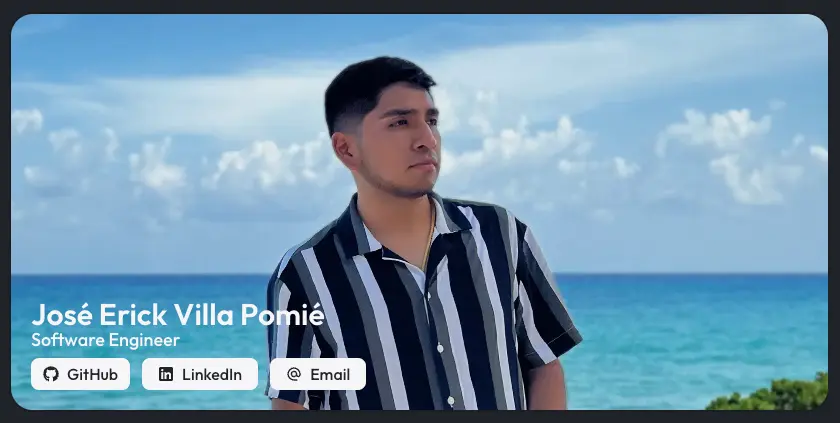
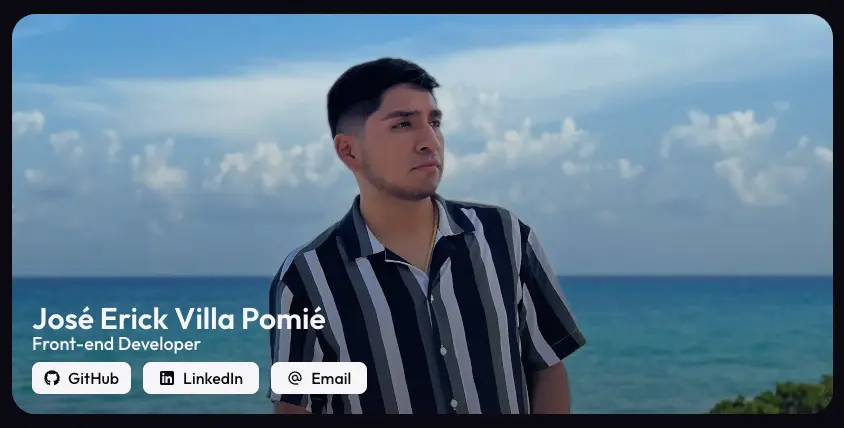
Project lightweighting adjustments

diff --git a/src/app/pages/home/index.tsx b/src/app/pages/home/index.tsx
@@ -1,11 +1,12 @@
 import { useEffect, useState } from 'react'
 import { MdAlternateEmail, MdAutoGraph } from 'react-icons/md'
 import { FaGithub, FaLinkedin } from 'react-icons/fa6'
-import { mapGenerator } from '../../shared/utils/map-utils.ts'
 import { useThemeStore } from '../../shared/stores/useThemeStore.ts'
 import Header from '../../theme/components/Header'
-import face from '../../../assets/memoji_face.png'
+import face from '../../../assets/memoji_face.webp'
 import personal from '../../../assets/IMG_0659.webp'
+import darkMap from '../../../assets/dark_map.webp'
+import whiteMap from '../../../assets/white_map.webp'
 import { Experiences, Projects } from '../../shared/utils/global-utils.ts'
 import {
 	IExperienceCard,
@@ -21,8 +22,10 @@ import InfinityScroll from '../../theme/components/InfinityScroll/InfinityScroll
 import { useTranslateStore } from '../../shared/stores/useTranslateStore.ts'
 import { switchLanguage } from '../../shared/utils/translate-utils.tsx'
 import { useTranslation } from 'react-i18next'
+import { THEME_TYPES } from '../../shared/constants'
 
 const Home = () => {
+	const { THEME_LIGHT } = THEME_TYPES
 	const [ref, hovering] = useHover()
 	const { t } = useTranslation('global')
 	const theme = useThemeStore(state => state.theme)
@@ -44,10 +47,6 @@ const Home = () => {
 	useEffect(() => {
 		setIsMobile(mobile)
 	}, [mobile])
-
-	useEffect(() => {
-		mapGenerator()
-	}, [theme])
 
 	return (
 		<div
@@ -82,8 +81,9 @@ const Home = () => {
 						whileInView={{ opacity: 1, y: 0 }}
 						transition={{ delay: 0.2, duration: 0.4 }}
 						viewport={{ once: true }}
-						className='row-span-2 col-span-6 rounded-3xl bg-white relative flex flex-col overflow-hidden border-2 border-transparent gap-10 justify-end p-6 dark:bg-raisin-black xl:col-span-4 lg:items-end sm:flex-row  lg:p-10'
+						className='row-span-2 col-span-6 rounded-3xl bg-white relative flex flex-col overflow-hidden gap-10 justify-end p-6 dark:bg-raisin-black xl:col-span-4 lg:items-end sm:flex-row  lg:p-10'
 					>
+						<div className='absolute bg-gradient-to-t from-dusky-alt to-transparent top-0 left-0 bottom-0 right-0 z-[2]' />
 						<img
 							className='absolute w-full h-full object-cover left-0 top-0'
 							src={personal}
@@ -156,7 +156,6 @@ const Home = () => {
 						<MdAutoGraph className='w-full h-full absolute -right-10 -bottom-12 opacity-5 dark:opacity-[0.02] p-5 z-[0]' />
 					</motion.div>
 					<motion.div
-						id='map'
 						ref={ref}
 						initial={{ opacity: 0, y: 20 }}
 						whileInView={{ opacity: 1, y: 0 }}
@@ -164,6 +163,11 @@ const Home = () => {
 						viewport={{ once: true }}
 						className='row-span-1 col-span-3 rounded-3xl bg-white dark:bg-raisin-black overflow-hidden border-2 border-transparent xl:col-span-1 flex items-center justify-center relative'
 					>
+						<img
+							className='absolute w-full h-full object-cover z-[1]'
+							src={theme === THEME_LIGHT ? whiteMap : darkMap}
+							alt='Location'
+						/>
 						<img className='w-11 z-[2]' src={face} alt='memoji' />
 						<div className='w-24 h-24 bg-[#98d0ff] absolute z-[1] rounded-full bg-opacity-30 border-2 border-white animate__animated animate__pulse animate__infinite infinite animate__fast' />
 						<AnimatePresence>

diff --git a/src/app/shared/utils/global-utils.ts b/src/app/shared/utils/global-utils.ts
@@ -155,4 +155,19 @@ export const DevTools: IDevToolsElement[] = [
 		name: '.NET',
 		icon: 'https://upload.wikimedia.org/wikipedia/commons/7/7d/Microsoft_.NET_logo.svg',
 	},
+	{
+		id: uuid(),
+		name: 'Laravel',
+		icon: 'https://upload.wikimedia.org/wikipedia/commons/9/9a/Laravel.svg',
+	},
+	{
+		id: uuid(),
+		name: 'Node.js',
+		icon: 'https://www.svgrepo.com/show/355140/node.svg',
+	},
+	{
+		id: uuid(),
+		name: 'MongoDB',
+		icon: 'https://www.svgrepo.com/show/331488/mongodb.svg',
+	}
 ]

diff --git a/src/main.tsx b/src/main.tsx
@@ -4,10 +4,6 @@ import App from './app/App.tsx'
 import './index.css'
 import { I18nextProvider } from 'react-i18next'
 import i18next from './i18n.ts'
-import mapboxgl from 'mapbox-gl' // or "const mapboxgl = require('mapbox-gl');"
-
-mapboxgl.accessToken =
-	'pk.eyJ1IjoiZXJpY2t2cG9taWUiLCJhIjoiY2xyNm44bDh4MmI1azJpcWlrMHJhMGxmdCJ9.EjSK-XJZadDVkLmgHDJM4w'
 
 ReactDOM.createRoot(document.getElementById('root')!).render(
 	<React.StrictMode>

diff --git a/tailwind.config.js b/tailwind.config.js
@@ -7,9 +7,10 @@ export default {
 			colors: {
 				// dusky: '#202329',
 				dusky: '#0b0a10',
+				'dusky-alt': 'rgba(11,10,16,0.5)',
 				moonlit: '#f5f5f7',
-				// midnight: '#343436',
-				midnight: '#202329',
+				midnight: '#343436',
+				// midnight: '#202329',
 				noon: '#efeef2',
 				'neon-blue': '#4353ff',
 				'light-green': '#7cea9cff',
